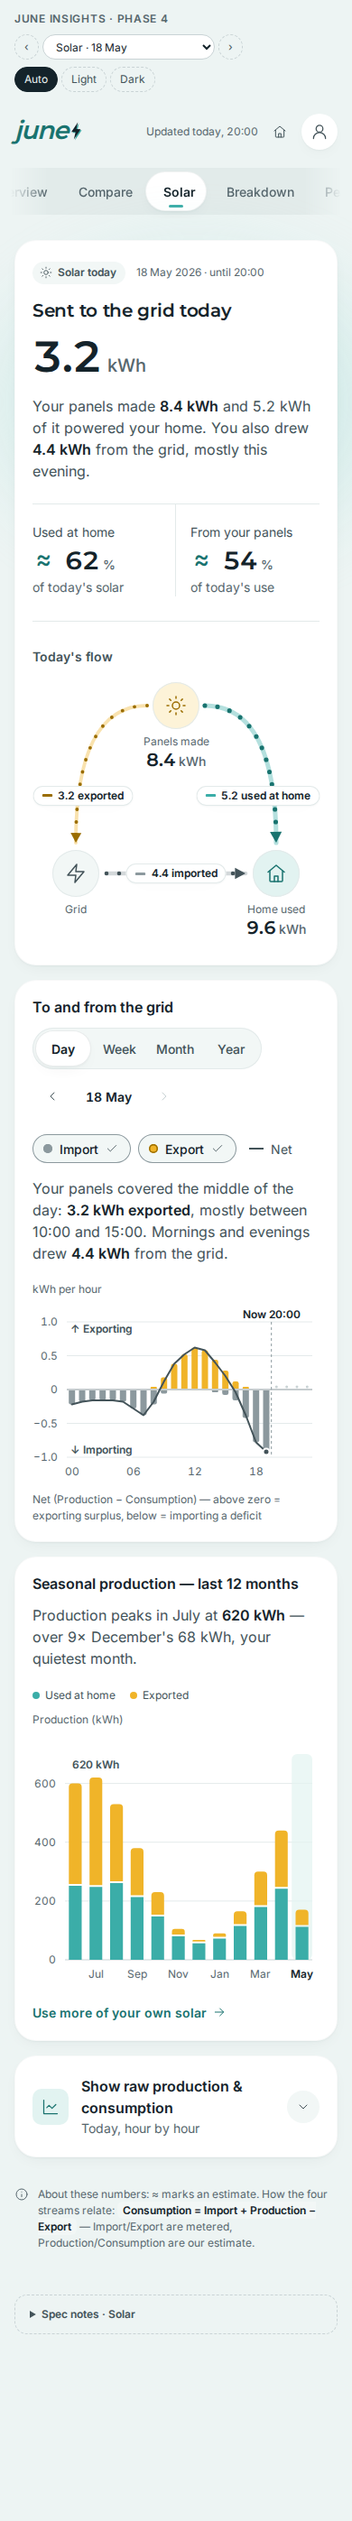
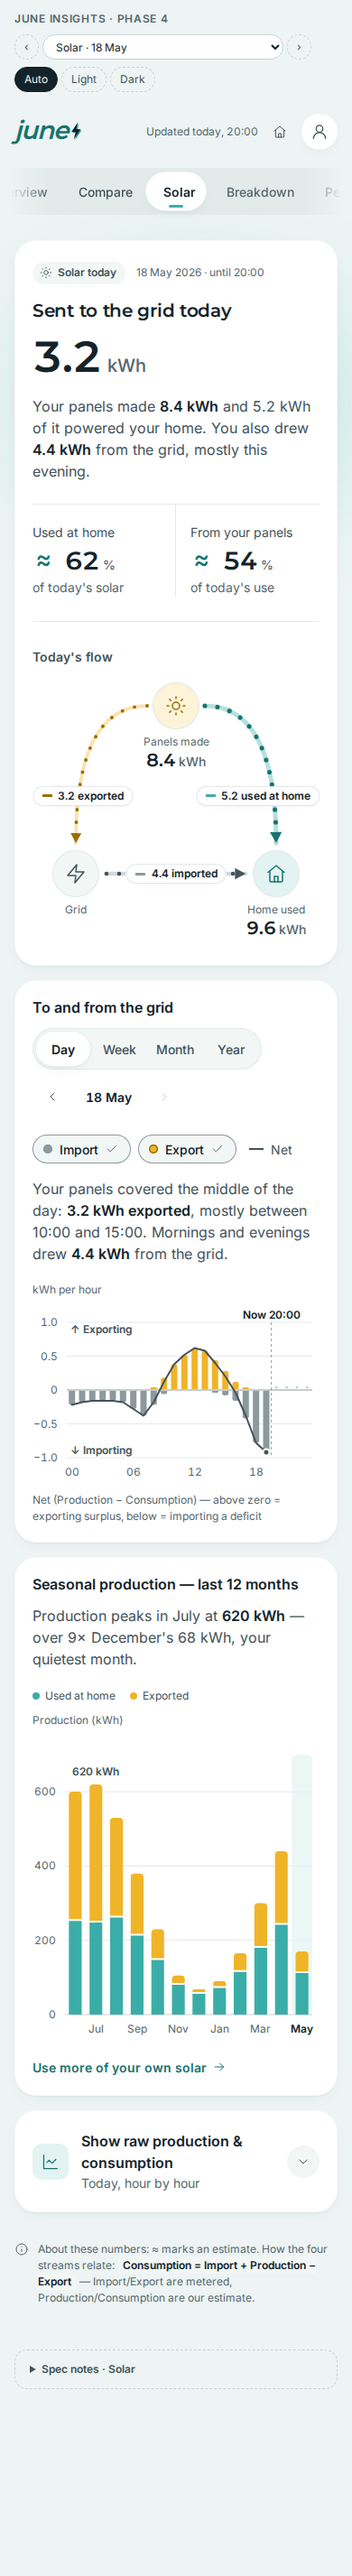
Final polish: Solar seasonal direct labels, balanced hero
Claude-Session: https://claude.ai/code/session_01DQCsKxdfeeA7stg6y986eR

diff --git a/app/panels/forecast.html b/app/panels/forecast.html
@@ -211,7 +211,7 @@
       <li>✓ Approved: glance row gated per cell; Month/Year chart vs last year; 24–48h chart with a verified band; budget cross-reference; retrospective accuracy check (<code>allow_historic</code>). IA per ux-audit §3.2.</li>
       <li>Hero contract (round-2 shared rule): status chip "On track for budget" (the frozen budget pill, moved to the hero status) → sentence "You're projected to use 8% more this month than in May last year — and stay under budget." → ONE numeral ≈ 290 kWh that the sentence doesn't repeat. The frozen headline ("You're projected to use 290 kWh this month — 8% more than the same month last year.") is split between the h1 and the numeral; the separate "+8%" delta chip is dropped as a repeat.</li>
       <li>Budget link card (6.4) = hero aside: body and "View budget →" verbatim with canonical numbers; aside heading is an in-card sentence-case title (no caps kicker).</li>
-      <li>Month view: a single line (your use: solid to today, dashed forecast) plus the budget as the only labelled threshold (2px ink). No legend/end-label mix and no stacked right-edge labels (fixes the 300/290/269 collision). Last year moved out of this view — it is stated in the hero caption and drawn in the Year view.</li>
+      <li>Month view (round 3 polish): your use (solid to today, dashed forecast) + May 2025 ghost (ink) + budget threshold (2px ink). Direct one-line end labels "May 2025 · 269", "May 2026 ≈ 290", "Budget 300 kWh", de-collided by JuneCharts; no legend on wide charts (key row only below 480px). Current day (18 May) highlighted. The over-budget variant omits the ghost (269 would sit on the 270 budget line).</li>
       <li>Year view: "Last year" (ink) vs "This year" (accent, dashed after April), legend only (end labels off). No confidence band on either view (binding rule).</li>
       <li>€: disabled € option with <code>data-reason</code> (tooltip + accessible description) + [i] popover with the product half of the € note (verbatim). Binding meta rule: <code>unit=cost</code> silently returns €0; the app must detect this and never show "€0 projected".</li>
       <li>Band explainer + "Likely range (95% confidence)" in the [i] popover (verbatim); the chart key says "Likely range".</li>
@@ -243,7 +243,7 @@
         <div class="hero__split">
           <div>
             <div class="hero__status">
-              <span class="chip alert"><span class="dot" aria-hidden="true"></span>Forecast to exceed budget</span>
+              <span class="chip warn"><span class="dot" aria-hidden="true"></span>Forecast to exceed budget</span>
               <span class="xs muted">May 2026 · electricity</span>
             </div>
             <h1 class="hero__sentence" id="fco-title">May is heading over your 270&nbsp;kWh budget.</h1>
@@ -299,7 +299,7 @@
   <details class="meta">
     <summary>Spec notes · Forecast · over budget</summary>
     <ul>
-      <li>Leads with the problem (round-2 rule): alert chip "Forecast to exceed budget" (verbatim pill copy) → "May is heading over your 270 kWh budget." → numeral ≈ 20 kWh over. One "over" colour: red (chip + budget line); amber is no longer used for "over".</li>
+      <li>Leads with the problem: warn (amber) chip "Forecast to exceed budget" (verbatim pill copy) → "May is heading over your 270 kWh budget." → numeral ≈ 20 kWh over. Per COMPONENTS §0, amber = at risk (not over yet), red = actually over; nothing is over yet, so no red on this state (budget line is 2px ink).</li>
       <li>Aside body "Your forecast projects 290 kWh this month — over your 270 kWh electricity budget by about 7%." and "View budget →" verbatim pattern.</li>
       <li>⚠ <b>Derived numbers</b>: printed 412 vs 380 kWh "by about 8%". With the canonical 290 kWh forecast, an illustrative budget of <b>270 kWh</b> gives "by about 7%" (290 ÷ 270 = 1.074) and 20 kWh over.</li>
       <li><b>D4</b>: daily figure uses the Budgets formula (limit − used) ÷ days left = (270 − 187) ÷ 13 = <b>6.4 kWh a day</b> (13 days = 19–31 May, as on Budgets). Crossing date: 187 + 7.9 × n ≥ 270 → n = 10.5 → during 29 May.</li>
@@ -497,22 +497,26 @@
   const cum = arr => { let s = 0; return arr.map(v => +(s += v).toFixed(1)); };
   const actual = cum(dailyMay);                                            // 187.0 on 18 May (20:00)
   const thisMay = actual.concat(cum([187, ...fcRest]).slice(1)); thisMay[30] = 290;
-  const tipMonth = i => i < 17 ? `${i + 1} May · used ${actual[i]} kWh so far`
-    : i === 17 ? '18 May (today, 20:00) · used 187 kWh so far' : `${i + 1} May · forecast ${thisMay[i]} kWh`;
-  // One line (your use, solid → dashed forecast); budget as the only labelled threshold. No legend + end-label mix.
-  const monthOpts = (budget, tone, aria) => ({
+  const lastMayDaily = [9.2, 9.0, 9.4, 8.9, 9.1, 8.6, 8.8, 9.0, 8.7, 8.5, 8.9, 8.4, 8.6, 8.8, 8.2, 8.5, 8.7, 8.3, 8.6, 8.4, 8.8, 8.5, 8.3, 8.6, 8.4, 8.7, 8.5, 8.4, 8.8, 8.6, 8.8];
+  const lastMay = cum(lastMayDaily); lastMay[30] = 269;               // May 2025 (illustrative curve, canonical total 269)
+  const tipMonth = i => (i < 17 ? `${i + 1} May · used ${actual[i]} kWh so far`
+    : i === 17 ? '18 May (today, 20:00) · used 187 kWh so far' : `${i + 1} May · forecast ${thisMay[i]} kWh`) + ` · May 2025 ${lastMay[i]} kWh`;
+  // Direct end labels (one-line, de-collided by JuneCharts): "May 2025 · 269", "May 2026 ≈ 290", "Budget 300 kWh". No legend on wide charts.
+  const monthOpts = (budget, ghost, aria) => ({
     labels: days, tipLabels: days.map(d => d + ' May'),
-    series: [{ name: '', tone: 'accent', values: thisMay, forecastFrom: 17 }],
+    series: (ghost ? [{ name: 'May 2025 ·', tone: 'ink', values: lastMay }] : [])
+      .concat([{ name: 'May 2026 ≈', tone: 'accent', values: thisMay, forecastFrom: 17 }]),
     now: { index: 17, label: 'Today' }, current: 17,
-    thresholds: budget ? [{ value: budget, label: 'Budget', tone, emphasis: true, valueText: budget + ' kWh' }] : [],
+    thresholds: budget ? [{ value: budget, label: 'Budget', tone: 'ink', emphasis: true, valueText: budget + ' kWh' }] : [],
     xTicks: [0, 9, 19, 30], yMin: 0, yMax: 320, yTicks: [0, 100, 200, 300],
-    yLabel: 'Your use since 1 May (kWh)', unit: 'kWh', decimals: 0, forecastName: 'Forecast',
-    tooltip: tipMonth, ariaLabel: aria
+    yLabel: 'Your use since 1 May (kWh)', unit: '', decimals: 0, forecastName: 'Forecast', forecastWord: ' ',
+    tooltip: ghost ? tipMonth : i => tipMonth(i).split(' · May 2025')[0], ariaLabel: aria
   });
-  const base = 'Line chart of your cumulative use in May 2026: 187 kWh used by today, 18 May at 20:00, then a dashed forecast line to 290 kWh on 31 May.';
-  JuneCharts.line('#fc-chart-month', monthOpts(300, 'ink', base + ' Budget line at 300 kWh; the forecast stays 10 kWh under it.'));
-  JuneCharts.line('#fcn-chart-month', monthOpts(0, 'ink', base));
-  JuneCharts.line('#fco-chart-month', monthOpts(270, 'alert', base + ' Budget line at 270 kWh in red; the forecast crosses it around 29 May and ends 20 kWh over.'));
+  const base = 'Line chart of your cumulative use in May 2026: 187 kWh used by today, 18 May at 20:00, then a dashed forecast line to about 290 kWh on 31 May.';
+  const ghostAria = ' May 2025 is shown as a grey line ending at 269 kWh.';
+  JuneCharts.line('#fc-chart-month', monthOpts(300, true, base + ghostAria + ' Budget line at 300 kWh; the forecast stays 10 kWh under it.'));
+  JuneCharts.line('#fcn-chart-month', monthOpts(0, true, base + ghostAria));
+  JuneCharts.line('#fco-chart-month', monthOpts(270, false, base + ' Budget line at 270 kWh; the forecast crosses it around 29 May and ends 20 kWh over.'));
 
   // ── Month by month (Nov 2025 – Oct 2026) ──
   const ym = ['Nov', 'Dec', 'Jan', 'Feb', 'Mar', 'Apr', 'May', 'Jun', 'Jul', 'Aug', 'Sep', 'Oct'];

diff --git a/app/panels/advice.html b/app/panels/advice.html
@@ -80,6 +80,16 @@
   [data-tab="advice"] .ad-actions .btn--primary, [data-tab="advice"] .ad-actions .btn--secondary { margin-right: 0; }
   [data-tab="advice"] .ad-note .btn--quiet { margin-left: 0; }
 }
+/* Mobile: the two dismissals sit behind one "More options" toggle so "Add to my plan" stands alone */
+[data-tab="advice"] .ad-more-btn { display: none; }
+[data-tab="advice"] .ad-more-btn .icon { transition: transform var(--dur-fast) var(--ease-out); }
+[data-tab="advice"] .ad-more-btn[aria-expanded="true"] .icon { transform: rotate(180deg); }
+[data-tab="advice"] .ad-more { display: contents; }
+@media (max-width: 600px) {
+  [data-tab="advice"] .ad-more-btn { display: inline-flex; }
+  [data-tab="advice"] .ad-more { display: none; flex-basis: 100%; gap: 4px; flex-wrap: wrap; }
+  [data-tab="advice"] .ad-more.open { display: flex; }
+}
 /* Reduced motion: no fold transition at all, so the Undo button is focusable immediately */
 @media (prefers-reduced-motion: reduce) {
   [data-tab="advice"] .ad-fold, [data-tab="advice"] .ad-fold--note,
@@ -122,8 +132,11 @@
           <div class="ad-fold ad-fold--main"><div>
             <div class="ad-actions">
               <button class="btn btn--primary" type="button" data-ad-move="plan"><svg class="icon sm" aria-hidden="true"><use href="#i-plus"/></svg>Add to my plan</button>
-              <button class="btn btn--quiet" type="button" data-ad-move="already"><svg class="icon sm" aria-hidden="true"><use href="#i-check"/></svg>Already do this</button>
-              <button class="btn btn--quiet" type="button" data-ad-move="notrel"><svg class="icon sm" aria-hidden="true"><use href="#i-x"/></svg>Not relevant</button>
+              <button class="btn btn--quiet ad-more-btn" type="button" aria-expanded="false" aria-controls="ad-more-1">More options<svg class="icon sm" aria-hidden="true"><use href="#i-chev-d"/></svg></button>
+              <div class="ad-more" id="ad-more-1">
+                <button class="btn btn--quiet" type="button" data-ad-move="already"><svg class="icon sm" aria-hidden="true"><use href="#i-check"/></svg>Already do this</button>
+                <button class="btn btn--quiet" type="button" data-ad-move="notrel"><svg class="icon sm" aria-hidden="true"><use href="#i-x"/></svg>Not relevant</button>
+              </div>
             </div>
           </div></div>
           <div class="ad-fold ad-fold--note"><div>
@@ -153,8 +166,11 @@
               <p class="ad-tip__save"><span class="mid-num"><button class="approx" type="button" data-pop="ad-pop-est" aria-label="About this estimate">≈</button>&nbsp;€65<span class="unit">a year</span></span><span class="xs">240&nbsp;kWh a year</span></p>
               <div class="ad-tip__actions ad-actions">
                 <button class="btn btn--secondary" type="button" data-ad-move="plan"><svg class="icon sm" aria-hidden="true"><use href="#i-plus"/></svg>Add to my plan</button>
-                <button class="btn btn--quiet" type="button" data-ad-move="already"><svg class="icon sm" aria-hidden="true"><use href="#i-check"/></svg>Already do this</button>
-                <button class="btn btn--quiet" type="button" data-ad-move="notrel"><svg class="icon sm" aria-hidden="true"><use href="#i-x"/></svg>Not relevant</button>
+                <button class="btn btn--quiet ad-more-btn" type="button" aria-expanded="false" aria-controls="ad-more-3">More options<svg class="icon sm" aria-hidden="true"><use href="#i-chev-d"/></svg></button>
+                <div class="ad-more" id="ad-more-3">
+                  <button class="btn btn--quiet" type="button" data-ad-move="already"><svg class="icon sm" aria-hidden="true"><use href="#i-check"/></svg>Already do this</button>
+                  <button class="btn btn--quiet" type="button" data-ad-move="notrel"><svg class="icon sm" aria-hidden="true"><use href="#i-x"/></svg>Not relevant</button>
+                </div>
               </div>
             </div>
           </div></div>
@@ -175,8 +191,11 @@
               <p class="ad-tip__save"><span class="mid-num"><button class="approx" type="button" data-pop="ad-pop-est" aria-label="About this estimate">≈</button>&nbsp;€180<span class="unit">a year</span></span><span class="xs">650&nbsp;kWh a year</span></p>
               <div class="ad-tip__actions ad-actions">
                 <button class="btn btn--secondary" type="button" data-ad-move="plan"><svg class="icon sm" aria-hidden="true"><use href="#i-plus"/></svg>Add to my plan</button>
-                <button class="btn btn--quiet" type="button" data-ad-move="already"><svg class="icon sm" aria-hidden="true"><use href="#i-check"/></svg>Already do this</button>
-                <button class="btn btn--quiet" type="button" data-ad-move="notrel"><svg class="icon sm" aria-hidden="true"><use href="#i-x"/></svg>Not relevant</button>
+                <button class="btn btn--quiet ad-more-btn" type="button" aria-expanded="false" aria-controls="ad-more-4">More options<svg class="icon sm" aria-hidden="true"><use href="#i-chev-d"/></svg></button>
+                <div class="ad-more" id="ad-more-4">
+                  <button class="btn btn--quiet" type="button" data-ad-move="already"><svg class="icon sm" aria-hidden="true"><use href="#i-check"/></svg>Already do this</button>
+                  <button class="btn btn--quiet" type="button" data-ad-move="notrel"><svg class="icon sm" aria-hidden="true"><use href="#i-x"/></svg>Not relevant</button>
+                </div>
               </div>
             </div>
           </div></div>
@@ -290,6 +309,7 @@
     </ul>
     <h4>Interaction</h4>
     <ul>
+      <li>Round 4: on phones (≤ 600px) "Already do this" / "Not relevant" sit behind one quiet "More options" toggle (<code>aria-expanded</code>/<code>aria-controls</code>), so "Add to my plan" stands alone; desktop unchanged. Undo re-opens the overflow before returning focus to the dismissal button.</li>
       <li>Row actions fold the tip away (grid-rows 1fr→0fr, 240ms, ease-in-out) and fold in a one-line confirmation with Undo; focus moves to Undo and back. Counts update live. The status control opens the matching status view.</li>
       <li>API: status change = <code>PATCH /advice/{id}</code> with JSON-Patch <code>[{op:"replace",path:"/status",value:"…"}]</code>. Add to my plan → <code>todo</code>; Already do this → <code>already_implemented</code> (goes to Dismissed, never Done); Not relevant → <code>not_relevant</code>.</li>
     </ul>
@@ -640,6 +660,16 @@
     b.textContent = v; b.hidden = v === 0;
   }
 
+  // Mobile overflow: "More options" shows the two dismissals
+  document.addEventListener('click', e => {
+    const t = e.target.closest('.ad-more-btn');
+    if (!t) return;
+    const box = document.getElementById(t.getAttribute('aria-controls'));
+    const open = t.getAttribute('aria-expanded') !== 'true';
+    t.setAttribute('aria-expanded', String(open));
+    box?.classList.toggle('open', open);
+  });
+
   document.addEventListener('click', e => {
     const move = e.target.closest('[data-ad-move]');
     const undo = e.target.closest('[data-ad-undo]');
@@ -663,7 +693,13 @@
       item.classList.remove('is-moved');
       bump(panel, from, +1); bump(panel, DEST[act], -1);
       if (live) live.textContent = `${item.dataset.name}: undone.`;
-      focusWhenVisible(item.querySelector(`[data-ad-move="${act}"]`));
+      const back = item.querySelector(`[data-ad-move="${act}"]`);
+      const box = back?.closest('.ad-more');
+      if (box && getComputedStyle(box).display === 'none') {
+        box.classList.add('open');
+        document.querySelector(`[aria-controls="${box.id}"]`)?.setAttribute('aria-expanded', 'true');
+      }
+      focusWhenVisible(back);
       delete item.dataset.moved;
     }
   });

diff --git a/app/panels/peak.html b/app/panels/peak.html
@@ -12,40 +12,34 @@
 [data-tab="peak"] .pk-coming .meter-ends { margin-top: 8px; }
 [data-tab="peak"] .pk-beforeafter { display: flex; align-items: center; gap: 12px; flex-wrap: wrap; margin-top: 8px; }
 [data-tab="peak"] .pk-beforeafter .stat__label { font-size: var(--fs-xs); color: var(--ink-500); }
-[data-tab="peak"] .pk-cta { margin-top: auto; padding-top: var(--s-2); }
+[data-tab="peak"] .pk-cta { padding-top: var(--s-2); }
 [data-tab="peak"] .pk-ready { margin-top: var(--s-6); padding-top: var(--s-5); border-top: 1px solid var(--hairline); }
 [data-tab="peak"] .pk-ready .readiness { margin-top: var(--s-4); }
 [data-tab="peak"] .pk-calc { max-width: 760px; }
-@media (min-width: 961px) { [data-tab="peak"] .grid.stretch > .surface { height: 100%; } }
 </style>
 
 <!-- ════════════════════════════ PEAK · main (12+ months) ════════════════════════════ -->
 <section class="panel" id="panel-peak" data-tab="peak" data-label="Peak · May 2026" aria-labelledby="pk-title">
-  <div class="grid stretch">
+  <div class="grid">
 
     <!-- Hero: the tariff answer + honest comparison meter -->
     <div class="span-12 ambient">
       <article class="surface hero">
         <div class="hero__split">
           <div>
-            <h1 class="hero__sentence" id="pk-title" style="margin-top:0">Your peaks are 0.24&nbsp;kW below the Flemish average.</h1>
-            <p class="hero__label mt-6">12-month rolling average
+            <h1 class="hero__sentence" id="pk-title" style="margin-top:0">4.0&nbsp;kW sets your capacity tariff.</h1>
+            <p class="hero__caption mt-2">That's your 12-month rolling average
               <button class="info" type="button" data-pop="pk-pop-rolling" aria-label="What is a rolling average?"><svg class="icon sm" aria-hidden="true"><use href="#i-info"/></svg></button>
-            </p>
-            <p class="hero__figure hero-num" style="margin-top:var(--s-2)"><span class="num" data-count="4.0">4.0</span><span class="unit">kW</span></p>
-            <p class="hero__caption">This sets your capacity tariff
+              — the number your capacity tariff
               <button class="info" type="button" data-pop="pk-pop-tariff" aria-label="What is the capacity tariff?"><svg class="icon sm" aria-hidden="true"><use href="#i-info"/></svg></button>
-            </p>
-            <div class="pk-money">
-              <button class="est" type="button" data-pop="pk-pop-est" aria-label="About this estimate">≈</button>
-              <span class="mid-num">€7.40<span class="unit">/ month</span></span>
-              <span class="cap">Estimated capacity charge</span>
-            </div>
+              is based on.</p>
+            <p class="hero__label mt-6">Estimated capacity charge</p>
+            <p class="hero__figure hero-num" style="margin-top:var(--s-2)"><button class="est" type="button" data-pop="pk-pop-est" aria-label="About this estimate">≈</button><span>€<span class="num" data-count="7.40" data-dec="2">7.40</span></span><span class="unit">/ month</span></p>
           </div>
           <div class="hero__aside">
             <h2 class="card-title">How you compare</h2>
             <div class="pk-bench" id="pk-bench"></div>
-            <p class="small secondary">Your rolling average is <b>4.0 kW</b> — the Flemish average is <b>4.24 kW</b>. You're just under average!</p>
+            <p class="small secondary">Your rolling average is <b>4.0 kW</b> — the Flemish average is <b>4.24 kW</b>. You're just under average.</p>
           </div>
         </div>
       </article>
@@ -190,7 +184,9 @@
       <li>Gauge removed. Comparison is now a bullet meter on a plain 0–5 kW ruler (starts at zero, 1 kW ticks; 5 kW = next whole kW above the largest value shown, 4.24). You 4.0 kW = filled bar + dot above; Flemish average 4.24 kW = tick labelled below. No derived "−0.24 kW" reading: the delta is written as "0.24 kW below the Flemish average".</li>
       <li>Round 3: the month-peak and 12-month-average lines were 0.2 kW (≈ 3px) apart. Only the 12-month average (the number that sets your tariff) is drawn as a line now; the month peak is carried by its red bar + direct annotation "Month peak 4.2 kW · 12 May, 18:30" (approved legend content, restyled). Same in the history state.</li>
       <li>Round 3: current period highlighted — today's bar (3.8 kW = Latest peak) is accent, other days muted, month peak red; matches the stat-row swatches.</li>
-      <li>Round 3 hero contract: sentence "Your peaks are 0.24 kW below the Flemish average." (plain words, the comparison is the answer) → ONE numeral 4.0 kW (the tariff figure). The "0.24 below" chip was removed (it repeated the sentence). "You're just under average!" kept verbatim (frozen benchmark copy; evaluator 2 suggests dropping the "!" — product decision).</li>
+      <li>Round 4 hero: the answer is the tariff figure — h1 "4.0 kW sets your capacity tariff." (rolling-average and capacity-tariff ⓘ in the line under it) → ONE supporting numeral ≈ €7.40 / month (adds information). The Flemish comparison appears once, only in the right column (meter + benchmark sentence).</li>
+      <li>Copy change for sign-off: benchmark "You're just under average!" → "You're just under average." (no "!", per round 3 evaluation).</li>
+      <li>Round 4: tiles no longer stretch to equal height, so "What's coming up" ends at its button (no dead band).</li>
       <li>Round 3: "New idea" badge removed from the customer ≈ popover — it is a designer badge ("experimental"), tracked here only. The popover keeps the title, sub and honesty note verbatim.</li>
       <li>Round 3: the 12-month strip in "What's coming up" was removed (duplicated the Year view) so the chart and coming-up tiles balance.</li>
       <li>Red is only the month's peak (bar, annotation, "Month peak" swatch) and the "highest" tag. The roll-off bar, strip and hourglass are ink/neutral.</li>
@@ -210,13 +206,13 @@
 
 <!-- ════════════════════════ PEAK · insufficient history (< 12 months) ════════════════════════ -->
 <section class="panel" id="panel-peak-history" data-tab="peak" data-label="Peak · insufficient history" data-updated="Updated 15 Sep 2025, 08:30" aria-labelledby="pkh-title">
-  <div class="grid stretch">
+  <div class="grid">
 
     <div class="span-12 ambient left">
       <article class="surface hero">
         <div class="hero__split">
           <div>
-            <h1 class="hero__sentence" id="pkh-title" style="margin-top:0">You're building your first 12-month peak average.</h1>
+            <h1 class="hero__sentence" id="pkh-title" style="margin-top:0">You're building the peak average that will set your capacity tariff.</h1>
             <p class="hero__label mt-6">Average so far
               <button class="info" type="button" data-pop="pk-pop-rolling" aria-label="What is a rolling average?"><svg class="icon sm" aria-hidden="true"><use href="#i-info"/></svg></button>
             </p>

diff --git a/app/panels/budgets.html b/app/panels/budgets.html
@@ -75,6 +75,9 @@
 [data-tab="budgets"] .bg-dl dd { margin: 0; color: var(--ink-900); font-weight: var(--w-semibold); text-align: right; }
 [data-tab="budgets"] .bg-settings-actions { margin-top: var(--s-5); display: flex; gap: 12px; flex-wrap: wrap; align-items: center; }
 
+[data-tab="budgets"] .bg-fallback { margin-top: var(--s-3); }
+[data-tab="budgets"] .bg-fallback .link { text-align: left; }
+
 /* Variants */
 [data-tab="budgets"] .bg-gap { display: flex; align-items: center; gap: 16px; flex-wrap: wrap; margin-top: var(--s-5); }
 [data-tab="budgets"] .bg-gap .stat__label { font-size: var(--fs-xs); color: var(--ink-500); }
@@ -557,6 +560,7 @@
         <p class="empty__when"><svg class="icon sm" aria-hidden="true"><use href="#i-clock"/></svg><span><b>No date yet</b> — the first calculation runs once your latest readings have been processed; your status appears here as soon as it has.</span></p>
         <div class="empty__actions"><a class="btn btn--secondary" href="#panel-budgets-setup"><svg class="icon sm" aria-hidden="true"><use href="#i-sliders"/></svg>Budget settings</a></div>
         <p class="empty__note">Nothing you need to do. You can still change how your limit is set in the meantime.</p>
+        <p class="bg-fallback"><button class="link" type="button" data-pop="bg-pop-meter-a">Nothing after a few days? Check your meter connection <svg class="icon sm" aria-hidden="true"><use href="#i-arrow-r"/></svg></button></p>
         <p class="bg-config"><span>Mode<b>Auto (20% margin)</b></span><span>Period<b>1–31 May</b></span></p>
       </div>
     </article>
@@ -564,9 +568,16 @@
 
   <p class="footnote"><svg class="icon sm" aria-hidden="true"><use href="#i-info"/></svg><span>About this budget: your limit, daily pace and forecast appear after the first calculation. Your settings are saved.</span></p>
 
+  <div class="popover" id="bg-pop-meter-a" aria-label="Check your meter connection" hidden>
+    <h3>Check your meter connection</h3>
+    <p>Your readings come from your digital meter's user port. Check that its port is still switched on and that any reader plugged into it has power and Wi‑Fi.</p>
+    <p>Still nothing after that? Contact us and we'll look into it with your grid operator.</p>
+  </div>
+
   <details class="meta">
     <summary>Spec notes · Budgets · Awaiting first run</summary>
     <ul>
+      <li>Round 4 fallback: "Nothing after a few days? Check your meter connection" opens a tip (user port switched on, reader powered, then contact us). No exact date (ask #38). There is no meter/support page in the product yet, so the tip holds the steps instead of a dead link — <b>derived copy</b>; confirm steps and support route with product.</li>
       <li>Reason code <code>budget_awaiting_first_run</code> (<code>Budget.status.action</code>). ✓ Approved. Copy verbatim; deliberately <b>no timeframe</b> (ask #38).</li>
       <li>Same chrome as source: fuel/period tabs, "Setting up" pill (neutral), config footer "Mode Auto (20% margin) · Period 1–31 May".</li>
       <li>Edge-state rule (round 3 template): <code>.empty__status</code> chip, <code>.empty__when</code> "No date yet — …" (no timeframe invented, ask #38), <code>.empty__note</code> + a secondary "Budget settings" link, footnote. All <b>derived copy</b>.</li>
@@ -594,6 +605,7 @@
         <p class="empty__body">Your meter hasn't reported enough recent readings yet to track this budget. Nothing wrong with your setup — this should resolve once fresh data comes in.</p>
         <p class="empty__when"><svg class="icon sm" aria-hidden="true"><use href="#i-clock"/></svg><span><b>No date yet</b> — it depends on when your meter next reports. Your first readings arrived on 16 May 2026.</span></p>
         <p class="empty__note">Nothing you need to do — your budget settings are saved and need no changes.</p>
+        <p class="bg-fallback"><button class="link" type="button" data-pop="bg-pop-meter-n">Nothing after a few days? Check your meter connection <svg class="icon sm" aria-hidden="true"><use href="#i-arrow-r"/></svg></button></p>
         <p class="bg-config"><span>Mode<b>Auto (20% margin)</b></span><span>Period<b>1–31 May</b></span></p>
       </div>
     </article>
@@ -601,9 +613,16 @@
 
   <p class="footnote"><svg class="icon sm" aria-hidden="true"><use href="#i-info"/></svg><span>About this budget: we track it from your meter's daily readings. Your settings are saved and nothing is lost while readings catch up.</span></p>
 
+  <div class="popover" id="bg-pop-meter-n" aria-label="Check your meter connection" hidden>
+    <h3>Check your meter connection</h3>
+    <p>Your readings come from your digital meter's user port. Check that its port is still switched on and that any reader plugged into it has power and Wi‑Fi.</p>
+    <p>Still nothing after that? Contact us and we'll look into it with your grid operator.</p>
+  </div>
+
   <details class="meta">
     <summary>Spec notes · Budgets · Not enough data</summary>
     <ul>
+      <li>Round 4 fallback: "Nothing after a few days? Check your meter connection" opens a tip (user port switched on, reader powered, then contact us). No exact date (ask #38). There is no meter/support page in the product yet, so the tip holds the steps instead of a dead link — <b>derived copy</b>; confirm steps and support route with product.</li>
       <li>Reason code <code>budget_not_enough_data</code>. ✓ Approved. Copy verbatim; deliberately <b>no timeframe</b> (ask #38: how long this lasts — needs Hani).</li>
       <li>No readiness meter: there is no known count to show. Same chrome as "Awaiting first run".</li>
       <li>Edge-state rule (round 3 template): <code>.empty__when</code> "No date yet — it depends on when your meter next reports" (ask #38: no duration known) + first readings 16 May 2026 (new-customer timeline, matches <code>panel-overview-new</code>, where Budgets is "Ready now" once a budget is set); <code>.empty__note</code> "Nothing you need to do"; footnote. The round-2 invented "last reading 14 May / check meter by 21 May" was removed. All <b>derived</b>.</li>

diff --git a/app/panels/solar.html b/app/panels/solar.html
@@ -35,7 +35,7 @@
 [data-tab="solar"] .sl-dot.imp { background: var(--ink-400); box-shadow: inset 0 0 0 1.5px var(--ink-400); }
 
 /* Flow diagram — the live instrument. Nodes are HTML; lines are an SVG drawn at real size by the script below. */
-[data-tab="solar"] .sl-flow { position: relative; height: 262px; margin-top: var(--s-4); }
+[data-tab="solar"] .sl-flow { position: relative; height: 322px; margin-top: var(--s-4); }
 [data-tab="solar"] .sl-flow > svg { position: absolute; inset: 0; width: 100%; height: 100%; overflow: visible; }
 [data-tab="solar"] .sl-track { fill: none; stroke-linecap: round; opacity: .38; }
 [data-tab="solar"] .sl-dash { fill: none; stroke-linecap: round; animation: sl-flow 1.4s linear infinite; }
@@ -228,6 +228,7 @@
       <li>Formula card → the "About these numbers" footnote (identity equation + honesty label verbatim).</li>
       <li>Flow numbers printed once (round 2): the summary rows (Import 4.4 · Export 3.2 · Self-consumed 5.2) became the direct labels on the three flow lines ("4.4 imported", "3.2 exported", "5.2 used at home"); the Grid node no longer shows a total (it read as "grid = 4.4 in total"). Nodes: "Panels made 8.4 kWh", "Home used 9.6 kWh".</li>
       <li>Round 3: card titles use <code>.card-title</code>; seasonal chart highlights May (so far) as the current period and labels "Used at home / Exported" directly (no legend); raw chart highlights the current hour; grid chart marks now with the "Now 20:00" line / bold "Today"·"May" tick. ≈ markers are the inline <code>.est</code> form.</li>
+      <li>Final polish: grid chart and seasonal chart share the row 6/6 so the seasonal card is wide enough for direct segment labels at the May column ("Exported 58 kWh / Used at home 112 kWh") — no legend on desktop (key row only below 480px, engine rule). Flow box sized so the hero's two columns end together.</li>
       <li>Next step added: "Use more of your own solar" link → Advice (new copy for sign-off).</li>
     </ul>
     <h4>Phase 4 decisions &amp; fixes</h4>
@@ -348,7 +349,7 @@
     series: [{ name: 'Used at home', values: yHome, tone: 'accent' }, { name: 'Exported', values: yExp, tone: 'elec' }],
     labels: months, tipLabels: monthsLong, xTicks: [1, 3, 5, 7, 9, 11],
     annotation: { index: 1, text: '620 kWh', tone: 'ink' }, current: 11, seriesLabels: 'direct', seriesValues: true,
-    yMax: 700, yTicks: [0, 200, 400, 600], height: 300, yLabel: 'Production (kWh)', unit: 'kWh', decimals: 0, maxBar: 16,
+    yMax: 700, yTicks: [0, 200, 400, 600], height: 360, yLabel: 'Production (kWh)', unit: 'kWh', decimals: 0, maxBar: 16,
     tooltip: (i, v) => `${monthsLong[i]} · ${v} kWh made · ${yHome[i]} used at home · ${yExp[i]} exported`,
     ariaLabel: 'Stacked bar chart of monthly solar production, June 2025 to May 2026 (May so far: 170 kWh), split into used at home and exported. July is highest at 620 kWh; December is lowest at 68 kWh, over 9 times less. Summer months export more than half; winter months use almost all of it at home.'
   });

diff --git a/app/panels/overview.html b/app/panels/overview.html
@@ -199,7 +199,7 @@
             <div class="ov-new-when">
               <div class="readiness" data-done="3" data-total="7" data-labels="16,17,18,19,20,21,22"
                    aria-label="3 of 7 days of readings: 16, 17 and 18 May 2026. Your first forecast and solar view arrive on 23 May.">
-                <div class="readiness__foot"><span><b>First insights on 23 May</b> · forecast and solar</span><span>4 more days</span></div>
+                <div class="readiness__foot"><span><b>First insights on 23 May</b> · daily forecast and solar</span><span>4 more days</span></div>
               </div>
               <p class="small secondary mt-2">There's nothing you need to do — each topic switches on by itself as your data comes in.</p>
             </div>
@@ -222,7 +222,7 @@
           <li><a href="#panel-forecast-not-enough-data" class="row">
             <span class="well row__icon"><svg class="icon" aria-hidden="true"><use href="#i-line"/></svg></span>
             <span class="row__title">Forecast</span>
-            <span class="row__sub">Your projected use for the month — needs 7 days of readings.</span>
+            <span class="row__sub">Daily and weekly forecasts from 23 May (7 days of readings); your monthly forecast from 1 July (after June, your first full month).</span>
             <span class="row__meta"><span class="chip"><svg class="icon" aria-hidden="true"><use href="#i-clock"/></svg>From 23 May</span></span>
             <svg class="icon row__go" aria-hidden="true"><use href="#i-chev-r"/></svg></a></li>
           <li><a href="#panel-solar-calibrating" class="row">
@@ -278,7 +278,7 @@
     </ul>
     <h4>Data (derived — flag for product review)</h4>
     <ul>
-      <li>Household: first readings 16 May 2026; "now" = 18 May 2026, 20:00 (D3). Readiness rule (COMPONENTS.md): N-day features unlock the morning after the Nth day of readings → 16–22 May → 23 May (matches Forecast "not enough data").</li>
+      <li>Household: first readings 16 May 2026; "now" = 18 May 2026, 20:00 (D3). Readiness rule (COMPONENTS.md): N-day features unlock the morning after the Nth day of readings → 16–22 May → daily/short-term forecasts 23 May (matches Forecast "not enough data"); the monthly forecast needs one full calendar month (June) → 1 July (matches Forecast "partly ready").</li>
       <li>Solar: same 7-day rule → 23 May (the Solar calibrating state is a different household, first readings 15 May).</li>
       <li>Breakdown needs 4 weeks of daily readings (Breakdown not-ready state: 11 May start → ready around 8 June) → 16 May + 4 weeks → from 13 June. Peak: the "average so far" appears once the first monthly peak is final (end of May) → from 1 June. Compare needs one full calendar month (June) → from 1 July.</li>
       <li>Advice: no reason code or timing exists ("usually resolves as more data comes in") → chip "No date yet" with the reason in the row.</li>
